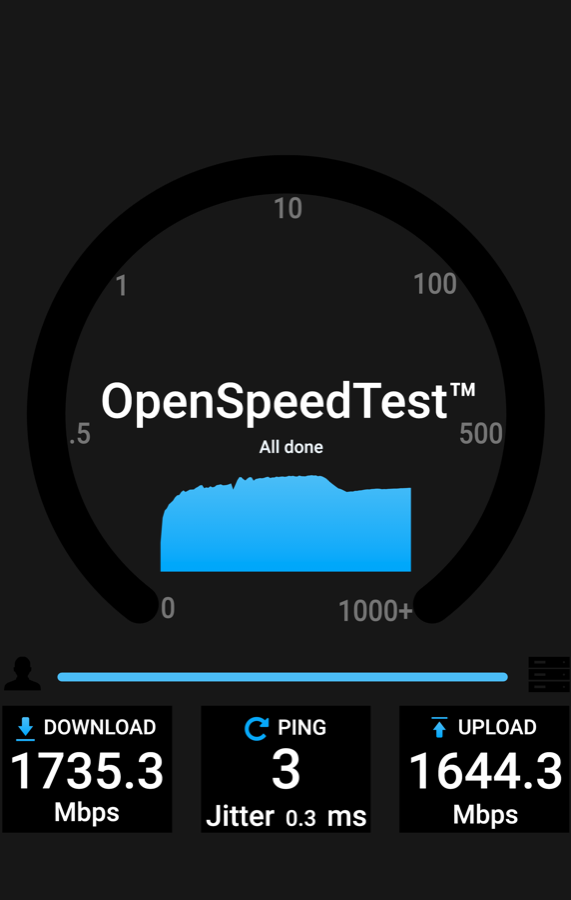
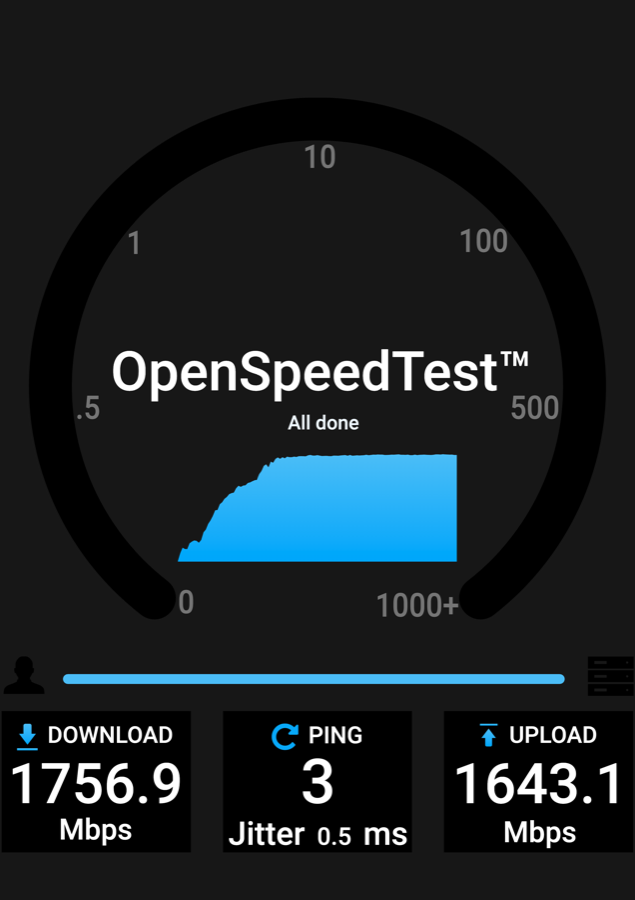
Use the steady OpenSpeedTest run: 1757 Mbit/s down, 1643 Mbit/s up

diff --git a/README.md b/README.md
@@ -28,7 +28,7 @@
 | Прошивка | OpenWrt (своя сборка на основе [iscle](https://github.com/iscle/openwrt)) в разделе `firmware` с `0xC0000`, 24 МБ |
 | Настройки | раздел `ubi` с `0x18C0000`, 40 МБ, том `rootfs_data` (UBIFS) |
 | Порты | `lan1`–`lan3` (1 Гбит, DSA) и `eth1` (2.5 Гбит), все в `br-lan` |
-| Wi-Fi | 2.4 + 5 ГГц, по умолчанию выключен. Клиент 2x2 160 МГц в OpenSpeedTest: скачивание 1735 Мбит/с, отдача 1644 Мбит/с ([замер](firmware/openwrt/README.md#speed)) |
+| Wi-Fi | 2.4 + 5 ГГц, по умолчанию выключен. Клиент 2x2 160 МГц в OpenSpeedTest: скачивание 1757 Мбит/с, отдача 1643 Мбит/с ([замер](firmware/openwrt/README.md#speed)) |
 
 ![Разметка флеша](images/flash-layout.svg)
 

diff --git a/README.en.md b/README.en.md
@@ -28,7 +28,7 @@
 | Firmware | OpenWrt (our build based on [iscle](https://github.com/iscle/openwrt)) in the `firmware` partition at `0xC0000`, 24 MiB |
 | Settings | `ubi` partition at `0x18C0000`, 40 MiB, `rootfs_data` volume (UBIFS) |
 | Ports | `lan1`–`lan3` (1 Gbit, DSA) and `eth1` (2.5 Gbit), all in `br-lan` |
-| Wi-Fi | 2.4 + 5 GHz, off by default. A 2x2 160 MHz client in OpenSpeedTest: 1735 Mbit/s download, 1644 Mbit/s upload ([test](firmware/openwrt/README.md#speed)) |
+| Wi-Fi | 2.4 + 5 GHz, off by default. A 2x2 160 MHz client in OpenSpeedTest: 1757 Mbit/s download, 1643 Mbit/s upload ([test](firmware/openwrt/README.md#speed)) |
 
 ![Flash layout](images/flash-layout.en.svg)
 

diff --git a/firmware/openwrt/README.md b/firmware/openwrt/README.md
@@ -13,11 +13,11 @@ Checksums: [`SHA256SUMS`](SHA256SUMS).
 
 OpenSpeedTest from a MacBook (2x2, 160 MHz, about −40 dBm) to a PC on the wired LAN, through the BE5000:
 
-![OpenSpeedTest: 1735 Mbit/s download, 1644 Mbit/s upload](../../images/openspeedtest-be5000.png)
+![OpenSpeedTest: 1757 Mbit/s download, 1643 Mbit/s upload](../../images/openspeedtest-be5000.png)
 
 | Test | Download | Upload |
 |---|---|---|
-| OpenSpeedTest in the browser | 1735 Mbit/s | 1644 Mbit/s |
+| OpenSpeedTest in the browser | 1757 Mbit/s | 1643 Mbit/s |
 | 8 parallel HTTP streams, 5 minutes | 1348 Mbit/s | 1384 Mbit/s |
 
 ## Flash layout

diff --git a/docs/ru/technical.md b/docs/ru/technical.md
@@ -128,7 +128,7 @@ U-Boot читает первые `fitsize = 0x500000` байт раздела и
 | PCIe | Скачивание (клиент 2x2 160 МГц) |
 |---|---|
 | 2,5 GT/s x1 | ~1,05 Гбит/с |
-| 5 GT/s x1 | ~1,45 Гбит/с (8 потоков HTTP), 1735 Мбит/с в OpenSpeedTest |
+| 5 GT/s x1 | ~1,45 Гбит/с (8 потоков HTTP), 1757 Мбит/с в OpenSpeedTest |
 
 ## Поддерживаемые чипы NAND
 

diff --git a/docs/en/technical.md b/docs/en/technical.md
@@ -128,7 +128,7 @@ The MT7992 radio is attached over two PCIe links: `0000:01:00.0` (main) and `000
 | PCIe | Download (2x2 160 MHz client) |
 |---|---|
 | 2.5 GT/s x1 | ~1.05 Gbit/s |
-| 5 GT/s x1 | ~1.45 Gbit/s (8 HTTP streams), 1735 Mbit/s in OpenSpeedTest |
+| 5 GT/s x1 | ~1.45 Gbit/s (8 HTTP streams), 1757 Mbit/s in OpenSpeedTest |
 
 ## Supported NAND chips
 
